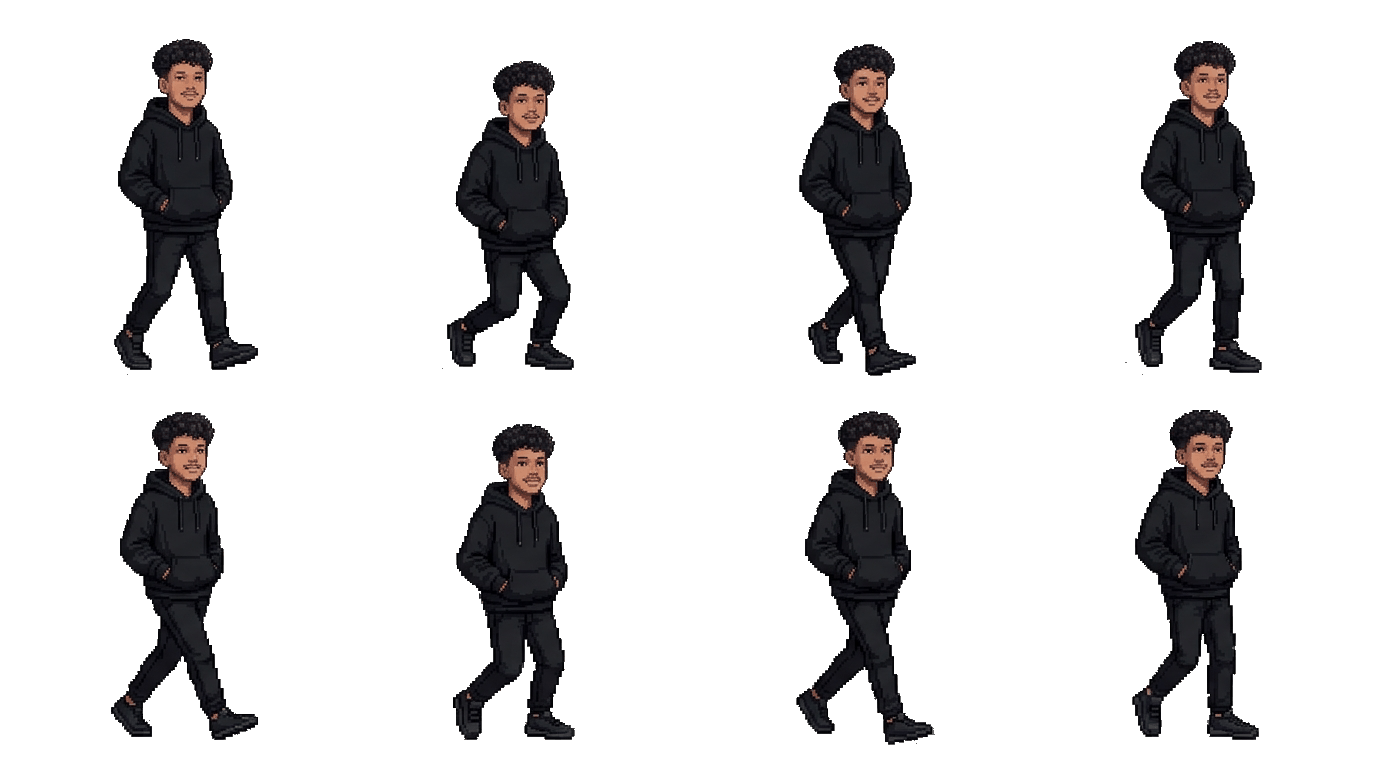
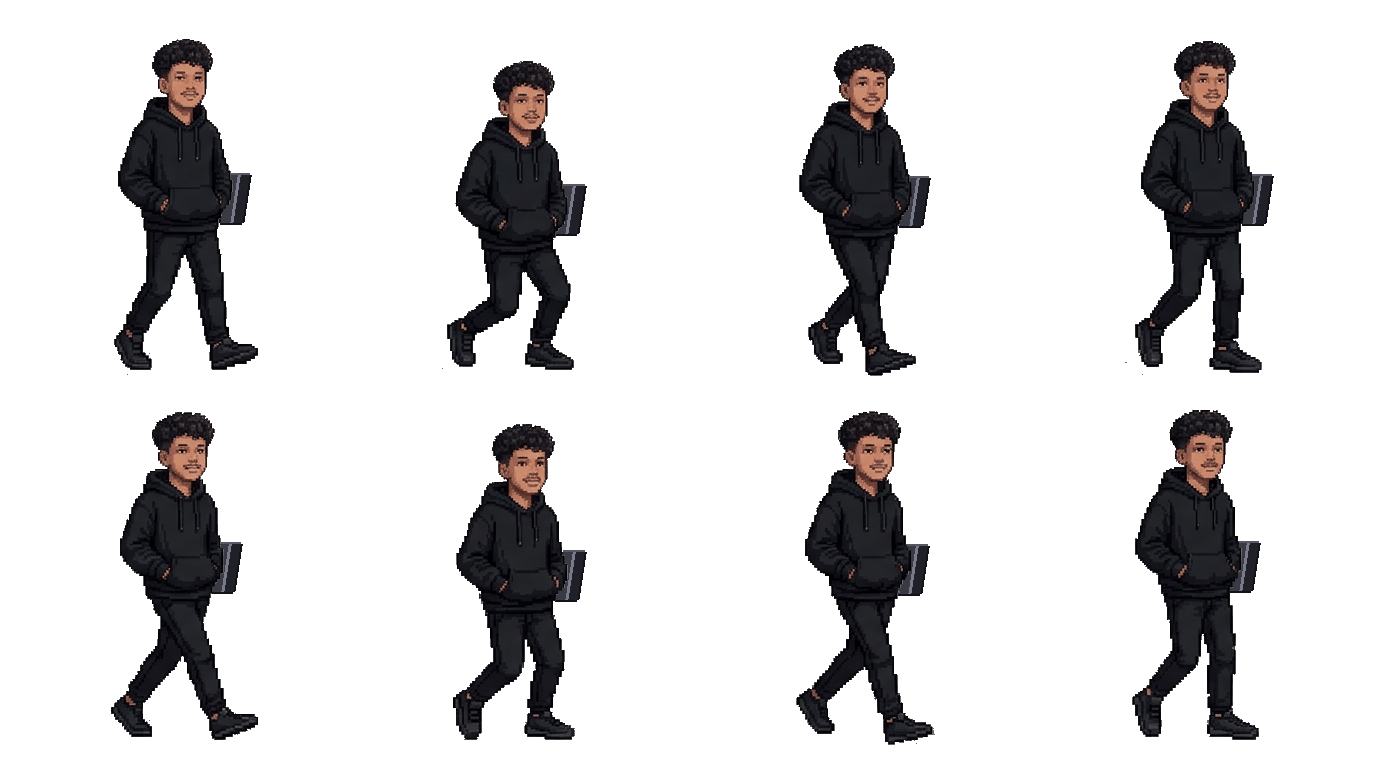
Hero character: mirror the walk to face left, tuck a laptop under the dev arm
Both hands sit in the hoodie pocket in every frame, so the laptop is drawn
behind the figure and anchored per frame to the arm edge found at chest
height. It reads as clamped under the arm and tracks the body as it sways.

diff --git a/sw.js b/sw.js
@@ -1,8 +1,8 @@
-// ============================================================
-// Service worker â€” offline cache for the portfolio (PWA)
+// ============================================================
+// Service worker Ã¢â‚¬â€ offline cache for the portfolio (PWA)
 // Bump CACHE version to force clients to refetch everything.
 // ============================================================
-const CACHE = "rjr-portfolio-v53";
+const CACHE = "rjr-portfolio-v54";
 
 const CORE = [
   "./",
@@ -39,14 +39,14 @@ self.addEventListener("activate", (e) => {
 self.addEventListener("fetch", (e) => {
   const req = e.request;
   if (req.method !== "GET") return;
-  // never cache the GitHub APIs â€” stats & contribution graph should stay live
+  // never cache the GitHub APIs Ã¢â‚¬â€ stats & contribution graph should stay live
   if (req.url.includes("api.github.com") || req.url.includes("github-contributions-api")) return;
 
   const url = new URL(req.url);
   const sameOrigin = url.origin === self.location.origin;
 
   // NETWORK-FIRST for app code (pages, CSS, JS): a deploy shows up on the
-  // very next load â€” no more stale-CSS + fresh-JS mixes breaking layouts.
+  // very next load Ã¢â‚¬â€ no more stale-CSS + fresh-JS mixes breaking layouts.
   // The cached copy is only a fallback for offline.
   const isAppCode =
     sameOrigin &&
@@ -69,7 +69,7 @@ self.addEventListener("fetch", (e) => {
     return;
   }
 
-  // CACHE-FIRST for everything else (images, fonts) â€” they rarely change
+  // CACHE-FIRST for everything else (images, fonts) Ã¢â‚¬â€ they rarely change
   e.respondWith(
     caches.match(req).then(
       (hit) =>

diff --git a/css/style.css b/css/style.css
@@ -199,6 +199,7 @@ body {
   image-rendering: pixelated; /* keep the pixel grid crisp when scaled */
   cursor: pointer;
   transition: opacity 0.22s ease;
+  transform: scaleX(-1); /* the sheets face right; mirror so he walks left */
   /* grounds the figure on the page without drawing a box around it */
   filter: drop-shadow(0 16px 14px rgba(0, 0, 0, 0.15));
 }
